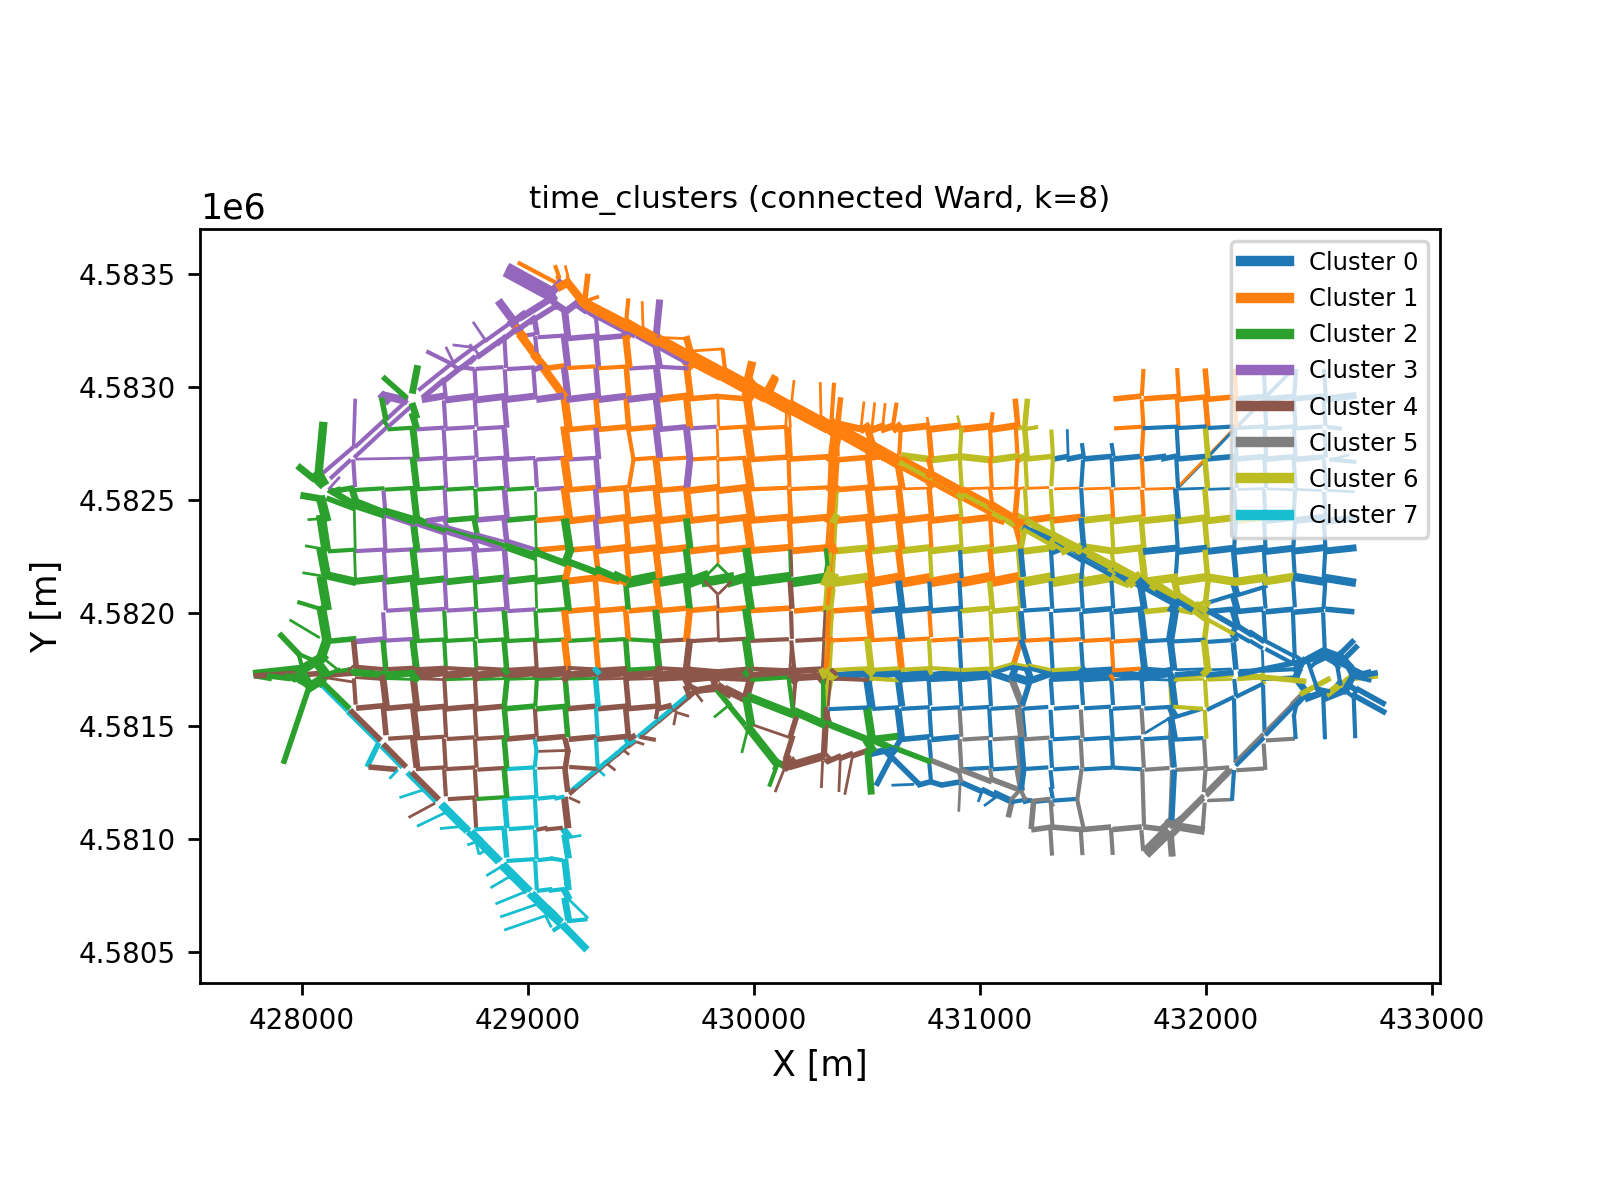
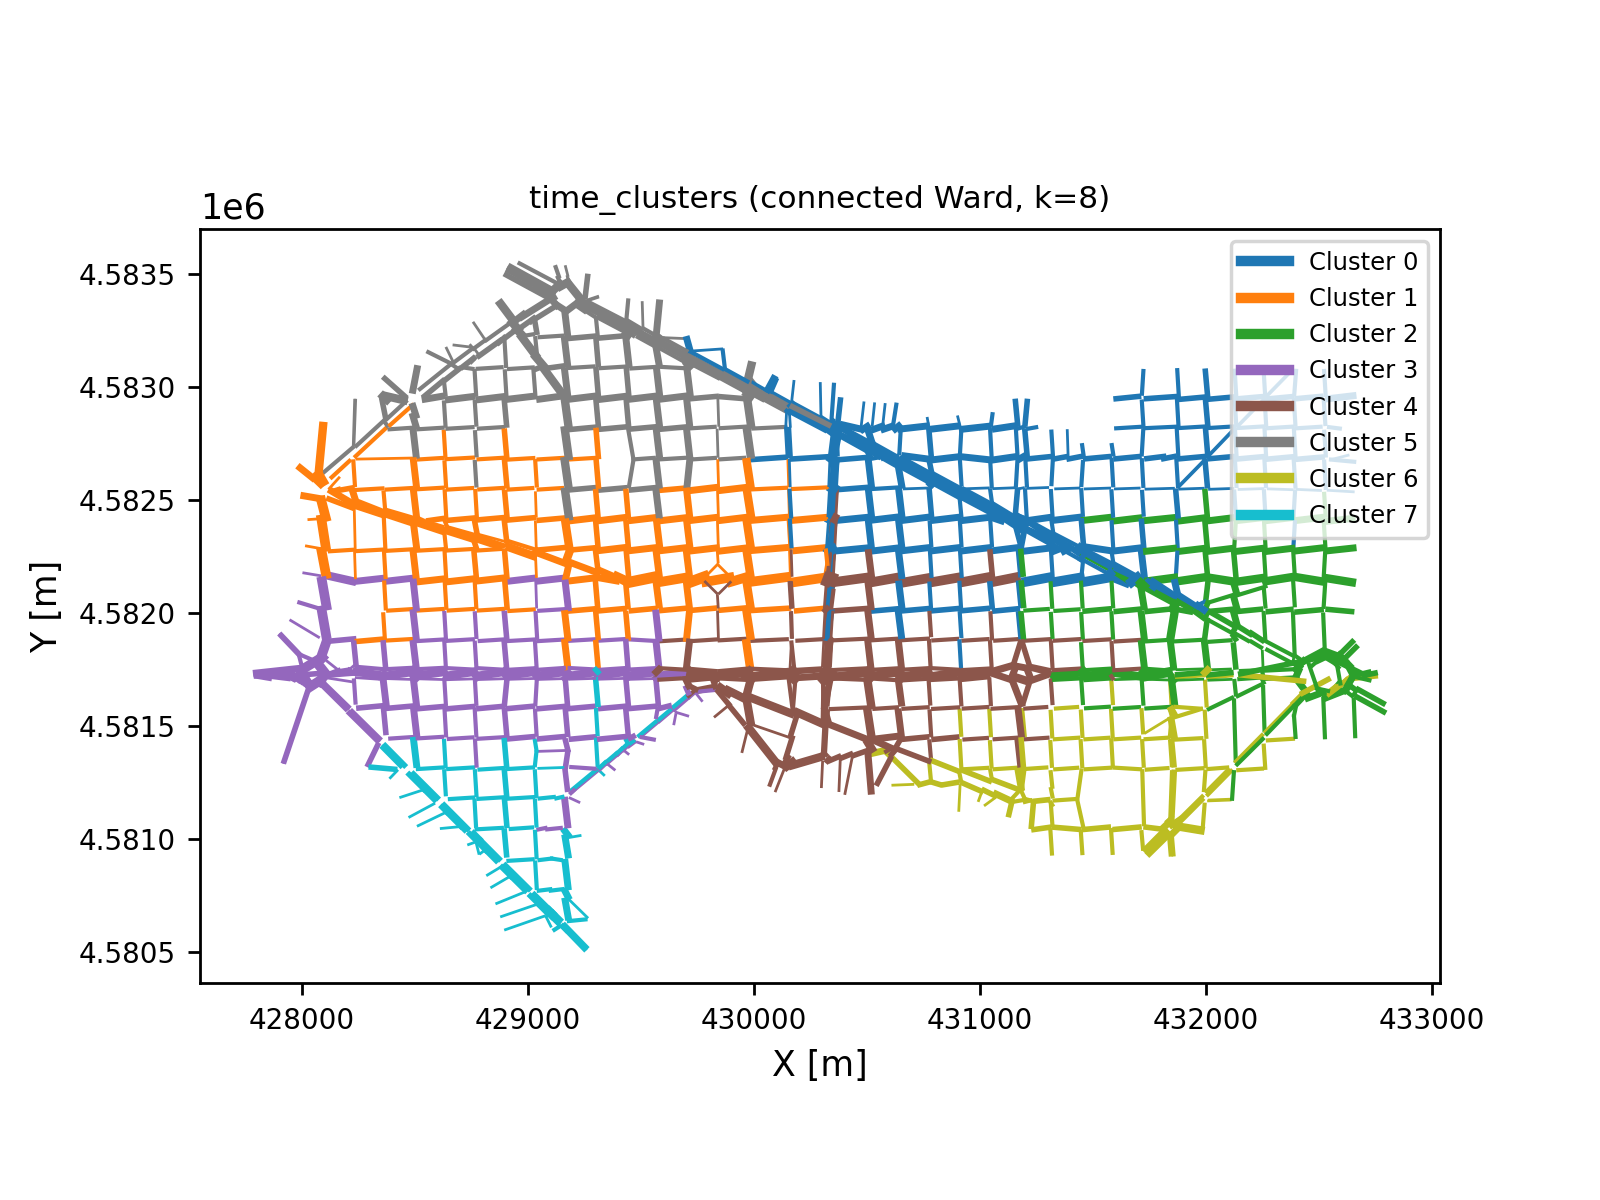
updated the spatial_weight to 2

Changed region(s): [[0.1562, 0.2158, 0.875, 0.7092]]

diff --git a/main.py b/main.py
@@ -586,7 +586,7 @@ def profile_components(profile, n_components=3):
     return u[:, :n_comp] * s[:n_comp]
 
 
-def temporal_cluster_features(profile, peak_mode, spatial_weight=1.2):
+def temporal_cluster_features(profile, peak_mode, spatial_weight=2): #trial of 0 so that it doesnt take into account the geometry of the map
     """
     Compute combined temporal and spatial features for clustering nodes based on
     their temporal profiles.
@@ -608,9 +608,9 @@ def temporal_cluster_features(profile, peak_mode, spatial_weight=1.2):
         filled.mean(axis=1),
         filled.std(axis=1),
         peak_time,
-        profile_components(rowwise_zscore(filled), n_components=3),
+        profile_components(rowwise_zscore(filled), n_components=3),# IMPORTANT TO CHANGE AS IT ONLY TAKES INTO ACCOUNT THE THREE VALUESSSSSSSS
     ])
-    spatial_features = DL.node_coordinates.astype(float)
+    spatial_features = np.column_stack([links["c_x"].to_numpy(), links["c_y"].to_numpy()])
     return np.hstack([
         StandardScaler().fit_transform(dynamic),
         StandardScaler().fit_transform(spatial_features) * spatial_weight,
